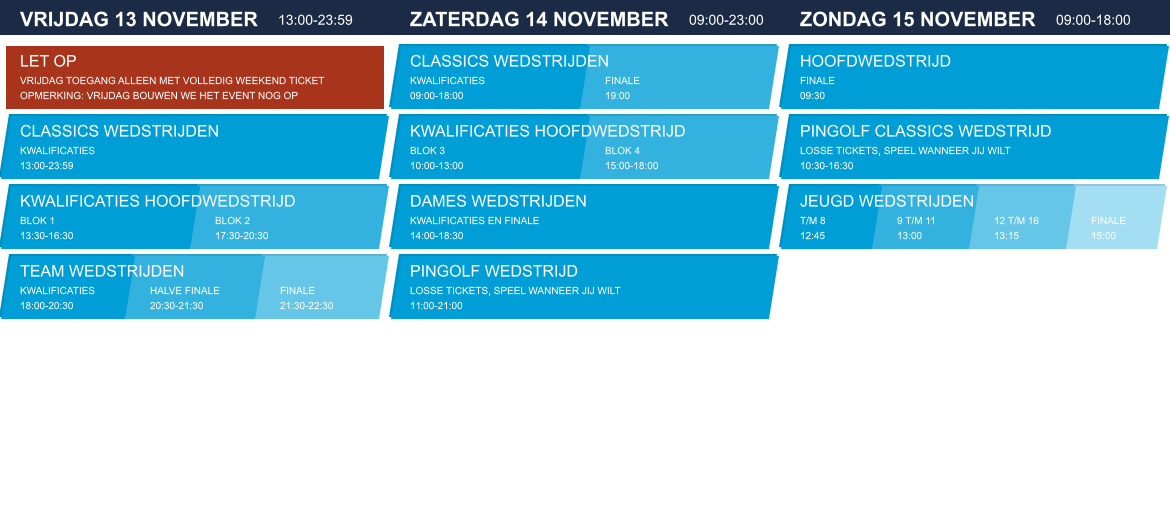
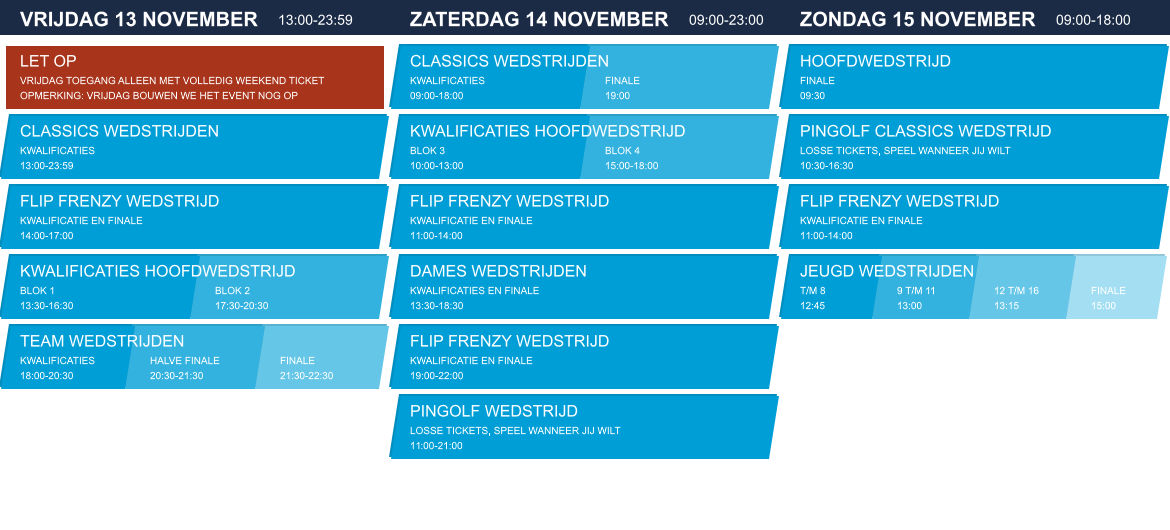
bump

Changed region(s): [[0.0, 0.3321, 1.0, 0.8755]]

diff --git a/program.html b/program.html
@@ -19,6 +19,7 @@ body { font-family: Arial, Helvetica, sans-serif; margin: 0; padding: 8px; }
 <li>13:00 - 23:59 Classics Wedstrijden - Kwalificaties</li>
 <li>13:30 - 16:30 Kwalificaties Hoofdwedstrijd - Blok 1</li>
 <li>17:30 - 20:30 Kwalificaties Hoofdwedstrijd - Blok 2</li>
+<li>14:00 - 17:00 Flip Frenzy Wedstrijd - Kwalificatie En Finale</li>
 <li>18:00 - 20:30 Team Wedstrijden - Kwalificaties</li>
 <li>20:30 - 21:30 Team Wedstrijden - Halve Finale</li>
 <li>21:30 - 22:30 Team Wedstrijden - Finale</li>
@@ -32,8 +33,10 @@ body { font-family: Arial, Helvetica, sans-serif; margin: 0; padding: 8px; }
 <li>19:00 -  Classics Wedstrijden - Finale</li>
 <li>10:00 - 13:00 Kwalificaties Hoofdwedstrijd - Blok 3</li>
 <li>15:00 - 18:00 Kwalificaties Hoofdwedstrijd - Blok 4</li>
+<li>11:00 - 14:00 Flip Frenzy Wedstrijd - Kwalificatie En Finale</li>
 <li>11:00 - 21:00 Pingolf Wedstrijd - Losse Tickets, Speel Wanneer Jij Wilt</li>
-<li>14:00 - 18:30 Dames Wedstrijden - Kwalificaties En Finale</li>
+<li>13:30 - 18:30 Dames Wedstrijden - Kwalificaties En Finale</li>
+<li>19:00 - 22:00 Flip Frenzy Wedstrijd - Kwalificatie En Finale</li>
 </ul>
 <h3>Zondag 15 November</h3>
 <p>&nbsp;</p>
@@ -41,6 +44,7 @@ body { font-family: Arial, Helvetica, sans-serif; margin: 0; padding: 8px; }
 <li><b>09:00 - 18:00 Openingstijden</b></li>
 <li>09:30 -  Hoofdwedstrijd - Finale</li>
 <li>10:30 - 16:30 Pingolf Classics Wedstrijd - Losse Tickets, Speel Wanneer Jij Wilt</li>
+<li>11:00 - 14:00 Flip Frenzy Wedstrijd - Kwalificatie En Finale</li>
 <li>12:45 -  Jeugd Wedstrijden - T/M 8</li>
 <li>13:00 -  Jeugd Wedstrijden - 9 T/M 11</li>
 <li>13:15 -  Jeugd Wedstrijden - 12 T/M 16</li>
@@ -55,6 +59,7 @@ body { font-family: Arial, Helvetica, sans-serif; margin: 0; padding: 8px; }
 <li>13:00 - 23:59 Classics Tournament - Qualifications</li>
 <li>13:30 - 16:30 Qualifications Main Tournament - Block 1</li>
 <li>17:30 - 20:30 Qualifications Main Tournament - Block 2</li>
+<li>14:00 - 17:00 Flip Frenzy Tournament - Qualification And Finales</li>
 <li>18:00 - 20:30 Team Tournament - Qualifications</li>
 <li>20:30 - 21:30 Team Tournament - Semi Finals</li>
 <li>21:30 - 22:30 Team Tournament - Finals</li>
@@ -68,8 +73,10 @@ body { font-family: Arial, Helvetica, sans-serif; margin: 0; padding: 8px; }
 <li>19:00 -  Classics Tournament - Finals</li>
 <li>10:00 - 13:00 Qualifications Main Tournament - Block 3</li>
 <li>15:00 - 18:00 Qualifications Main Tournament - Block 4</li>
+<li>11:00 - 14:00 Flip Frenzy Tournament - Qualification And Finales</li>
 <li>11:00 - 21:00 Pingolf Tournament - Seperate Tickets, Play When You Want</li>
-<li>14:00 - 18:30 Ladies Tournament - Qualifications And Finals</li>
+<li>13:30 - 18:30 Ladies Tournament - Qualifications And Finals</li>
+<li>19:00 - 22:00 Flip Frenzy Tournament - Qualification And Finales</li>
 </ul>
 <h3>Sunday 15 November</h3>
 <p>&nbsp;</p>
@@ -77,6 +84,7 @@ body { font-family: Arial, Helvetica, sans-serif; margin: 0; padding: 8px; }
 <li><b>09:00 - 18:00 Opening Hours</b></li>
 <li>09:30 -  Main Tournament - Finals</li>
 <li>10:30 - 16:30 Pingolf Classics Tournament - Seperate Tickets, Play When You Want</li>
+<li>11:00 - 14:00 Flip Frenzy Tournament - Qualification And Finales</li>
 <li>12:45 -  Youth Tournament - Till 8</li>
 <li>13:00 -  Youth Tournament - 9 Till 11</li>
 <li>13:15 -  Youth Tournament - 12 Till 16</li>

diff --git a/embed-snippet.html b/embed-snippet.html
@@ -13,7 +13,9 @@
     style="width:100%;height:auto;display:block" />
 
   <!-- Lijst in een afgeschermd iframe (XSS-veilig: sandbox ontneemt alle rechten). -->
+  <!-- De ?v= wordt hieronder automatisch gezet vanuit version.txt. -->
   <iframe
+    id="dpo-timetable-iframe"
     src="https://rdkleine.github.io/dpo-website-content/program.html"
     title="Schedule"
     loading="lazy"
@@ -25,8 +27,8 @@
 
 <script>
 // Leest de versie (platte tekst, bv. "20260602124937") en zet die als cache-buster
-// op de afbeelding. We zetten ALLEEN een src-attribuut; er wordt niets als HTML
-// uitgevoerd, dus dit is geen XSS-vector.
+// op de afbeelding en het iframe. We zetten ALLEEN een src-attribuut; er wordt niets
+// als HTML uitgevoerd, dus dit is geen XSS-vector.
 (function () {
   var base = "https://rdkleine.github.io/dpo-website-content/";
   fetch(base + "version.txt", { cache: "no-store" })
@@ -36,7 +38,9 @@
       if (!/^[0-9]+$/.test(v)) return;            // alleen cijfers; anders niets doen
       var img = document.getElementById("dpo-timetable-img");
       if (img) img.src = base + "program.png?v=" + v;
+      var iframe = document.getElementById("dpo-timetable-iframe");
+      if (iframe) iframe.src = base + "program.html?v=" + v;
     })
-    .catch(function () { /* offline/CDN-issue: toon gewoon de zonder-versie afbeelding */ });
+    .catch(function () { /* offline/CDN-issue: toon gewoon de zonder-versie versie */ });
 })();
 </script>